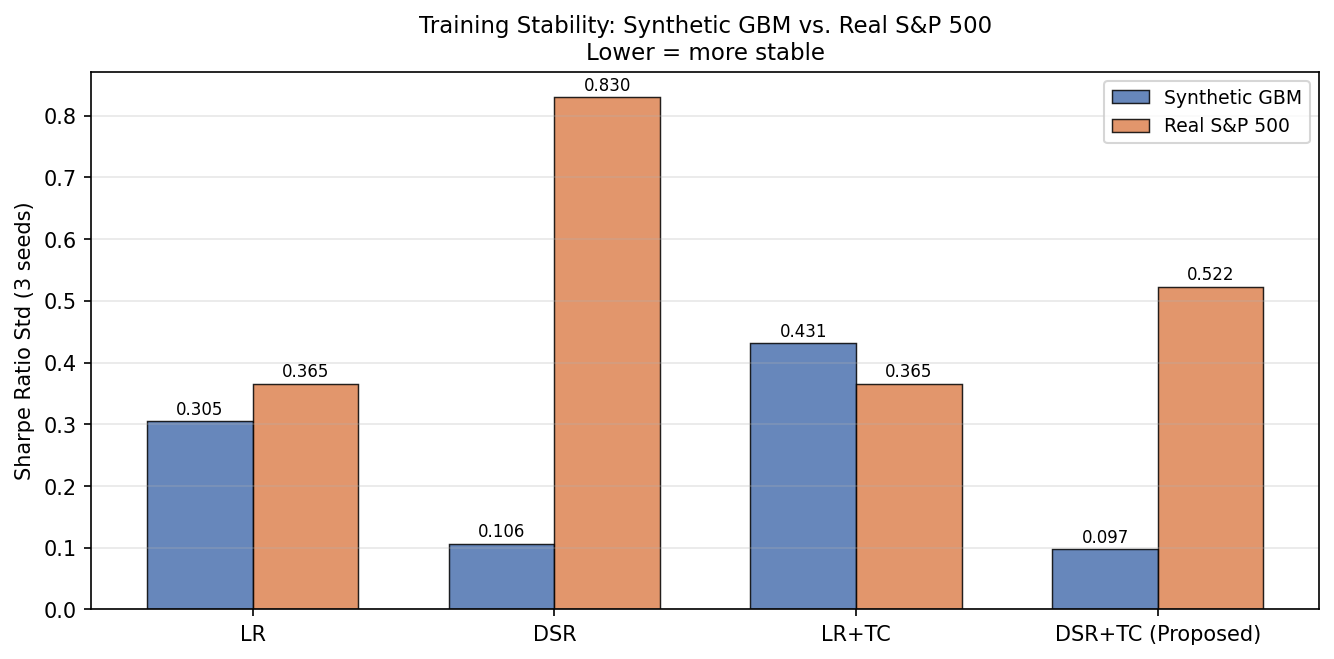
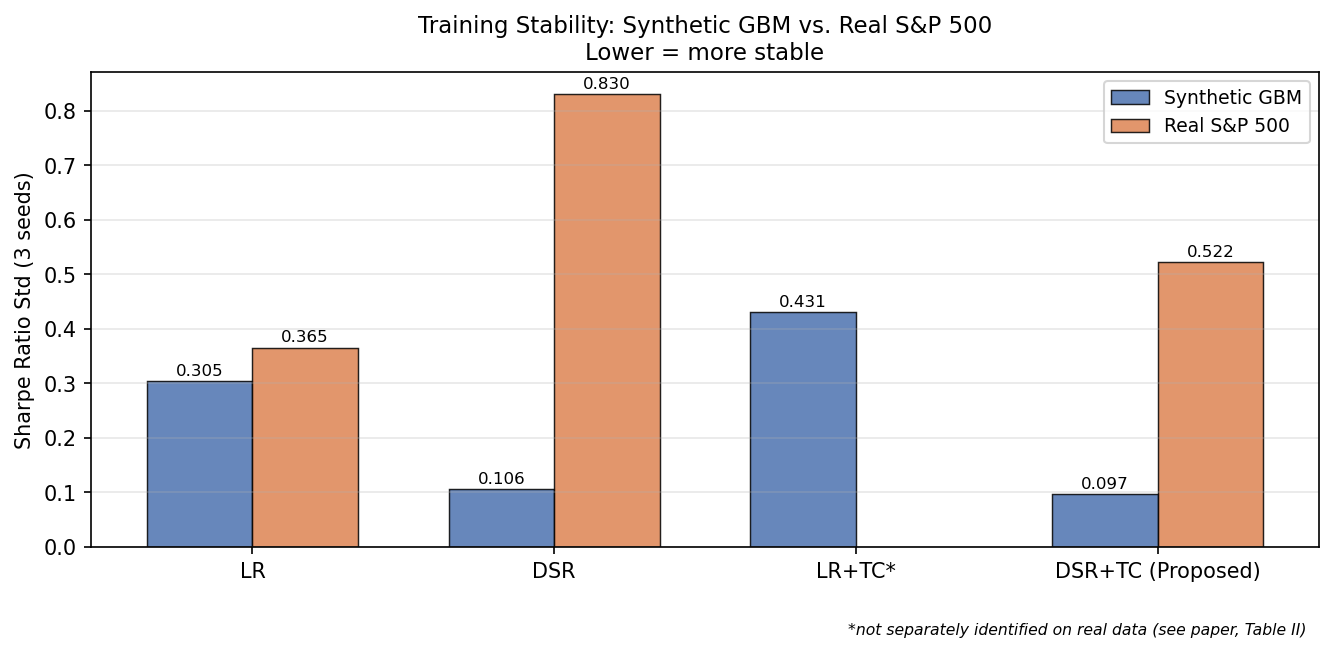
Stop plotting the duplicated EXP-07 configuration
exp_07_real_ablation.py builds its training env with tc=TC for every reward
type, so the transaction cost enters the realised return in all branches and
the log_return / log_return_tc configs reduce to the same objective. They
produce bit-identical runs: both report sharpe_mean = 0.2128969395... in
exp_07_results.json.

Real-data panels now plot a single merged LR series instead of two identical
ones. In the synthetic-vs-real grouped bars the real-side LR+TC bar is omitted
and marked, rather than repeating the LR value.

This affects EXP-07 only. EXP-02 and EXP-03 apply the cost conditionally via
tc=TC if 'tc' in rtype else 0.0, and EXP-14 onward define each configuration
explicitly. The LR vs LR+TC contrast is evaluated properly at n=60 in EXP-19.

diff --git a/experiments/exp_09_real_figures.py b/experiments/exp_09_real_figures.py
@@ -7,6 +7,10 @@ Generates 4 publication-quality figures for the real-data extension section:
   fig_09: Stability comparison — side-by-side Sharpe std: synthetic vs real
   fig_10: Turnover comparison — synthetic vs real (grouped bar)
 """
+import os as _os
+# Repo-relative root; override with the RESEARCH_ROOT environment variable.
+_ROOT = _os.environ.get("RESEARCH_ROOT") or _os.path.dirname(
+    _os.path.dirname(_os.path.abspath(__file__)))
 
 import numpy as np
 import json, os
@@ -15,8 +19,8 @@ matplotlib.use("Agg")
 import matplotlib.pyplot as plt
 import matplotlib.patches as mpatches
 
-FIGURES_DIR = "/home/user/workspace/research_output/figures"
-RESULTS_DIR = "/home/user/workspace/research_output/results"
+FIGURES_DIR = _ROOT + "/figures"
+RESULTS_DIR = _ROOT + "/results"
 os.makedirs(FIGURES_DIR, exist_ok=True)
 
 # ── Load results ───────────────────────────────────────────────────────────────
@@ -29,12 +33,20 @@ with open(f"{RESULTS_DIR}/exp_02_results.json") as f: r2_syn = json.load(f)
 with open(f"{RESULTS_DIR}/exp_03_results.json") as f: r3_syn = json.load(f)
 
 REWARD_TYPES = ["log_return", "dsr", "log_return_tc", "dsr_tc"]
+
+# EXP-07 applies the transaction cost to the realised return for every reward
+# type, so the log_return and log_return_tc branches reduce to the same
+# objective and produce identical runs. Real-data panels therefore plot a
+# single merged LR series; see the note to Table II in the paper.
+REAL_REWARD_TYPES = ["log_return", "dsr", "dsr_tc"]
+
 LABEL_MAP = {
     "log_return":    "LR",
     "dsr":           "DSR",
     "log_return_tc": "LR+TC",
     "dsr_tc":        "DSR+TC\n(Proposed)",
 }
+REAL_LABEL_MAP = dict(LABEL_MAP, log_return="LR\n(R1/R3)")
 COLORS = {
     "log_return":    "#4C72B0",
     "dsr":           "#55A868",
@@ -48,7 +60,7 @@ COLORS = {
 # ─────────────────────────────────────────────────────────────────────────────
 # FIG 7: Sharpe comparison on real data (bar + error bars)
 # ─────────────────────────────────────────────────────────────────────────────
-all_strats   = REWARD_TYPES + ["equal_weight", "min_variance", "max_sharpe"]
+all_strats   = REAL_REWARD_TYPES + ["equal_weight", "min_variance", "max_sharpe"]
 sharpe_means = []
 sharpe_stds  = []
 for s in all_strats:
@@ -59,7 +71,7 @@ for s in all_strats:
         sharpe_means.append(r6["baselines"][s]["sharpe_ratio"])
         sharpe_stds.append(0.0)
 
-labels_plot  = [LABEL_MAP.get(s, s.replace("_", "-").title()) for s in all_strats]
+labels_plot  = [REAL_LABEL_MAP.get(s, s.replace("_", "-").title()) for s in all_strats]
 labels_plot[-2] = "Min-Var"
 labels_plot[-1] = "Max-SR\n(MVO)"
 colors_plot = [COLORS.get(s, "#999999") for s in all_strats]
@@ -99,13 +111,13 @@ test_regimes = np.array(r8["test_regimes"])
 line_styles = {"log_return": "-",  "dsr": "--", "log_return_tc": "-.", "dsr_tc": "-", "equal_weight": ":"}
 line_widths  = {"log_return": 1.5, "dsr": 1.5,  "log_return_tc": 1.5, "dsr_tc": 2.5, "equal_weight": 1.5}
 
-for rtype in REWARD_TYPES + ["equal_weight"]:
+for rtype in REAL_REWARD_TYPES + ["equal_weight"]:
     if rtype in daily_series:
         dr = np.array(daily_series[rtype])
         pv = np.cumprod(1 + dr)
         t  = np.arange(len(pv))
         ax.plot(t, pv,
-                label=LABEL_MAP.get(rtype, rtype.replace("_", " ").title()),
+                label=REAL_LABEL_MAP.get(rtype, rtype.replace("_", " ").title()),
                 color=COLORS.get(rtype, "#888"),
                 linewidth=line_widths.get(rtype, 1.5),
                 linestyle=line_styles.get(rtype, "-"))
@@ -140,9 +152,16 @@ print("fig_08 saved")
 # ─────────────────────────────────────────────────────────────────────────────
 fig, ax = plt.subplots(figsize=(9, 4.5))
 
-syn_stds  = [r2_syn["results"][rt]["sharpe_std"]   for rt in REWARD_TYPES]
-real_stds = [r7["results"][rt]["sharpe_std"]        for rt in REWARD_TYPES]
+def _real(series_key, rt):
+    """Real-data value, or NaN for the config EXP-07 does not identify separately."""
+    if rt not in REAL_REWARD_TYPES:
+        return np.nan
+    return r7["results"][rt][series_key]
+
+syn_stds  = [r2_syn["results"][rt]["sharpe_std"] for rt in REWARD_TYPES]
+real_stds = [_real("sharpe_std", rt)             for rt in REWARD_TYPES]
 labels_r  = [LABEL_MAP[rt].replace("\n", " ") for rt in REWARD_TYPES]
+labels_r[REWARD_TYPES.index("log_return_tc")] += "*"
 
 x   = np.arange(len(REWARD_TYPES))
 w   = 0.35
@@ -150,6 +169,8 @@ b1  = ax.bar(x - w/2, syn_stds,  w, label="Synthetic GBM", color="#4C72B0", alph
 b2  = ax.bar(x + w/2, real_stds, w, label="Real S&P 500",  color="#DD8452", alpha=0.85, edgecolor="black", linewidth=0.7)
 
 for bar, v in list(zip(b1, syn_stds)) + list(zip(b2, real_stds)):
+    if np.isnan(v):
+        continue
     ax.text(bar.get_x() + bar.get_width()/2, bar.get_height() + 0.005,
             f"{v:.3f}", ha="center", va="bottom", fontsize=8)
 
@@ -158,6 +179,8 @@ ax.set_xticklabels(labels_r, fontsize=10)
 ax.set_ylabel("Sharpe Ratio Std (3 seeds)", fontsize=10)
 ax.set_title("Training Stability: Synthetic GBM vs. Real S&P 500\n"
              "Lower = more stable", fontsize=11)
+ax.text(0.99, -0.16, "*not separately identified on real data (see paper, Table II)",
+        transform=ax.transAxes, ha="right", va="top", fontsize=7.5, style="italic")
 ax.legend(fontsize=9)
 ax.grid(axis="y", alpha=0.3)
 plt.tight_layout()
@@ -170,13 +193,15 @@ print("fig_09 saved")
 # ─────────────────────────────────────────────────────────────────────────────
 fig, ax = plt.subplots(figsize=(9, 4.5))
 
-syn_to  = [r3_syn["turnover"][rt]            for rt in REWARD_TYPES]
-real_to = [r7["results"][rt]["turnover_mean"] for rt in REWARD_TYPES]
+syn_to  = [r3_syn["turnover"][rt]        for rt in REWARD_TYPES]
+real_to = [_real("turnover_mean", rt)    for rt in REWARD_TYPES]
 
 b1  = ax.bar(x - w/2, syn_to,  w, label="Synthetic GBM", color="#4C72B0", alpha=0.85, edgecolor="black", linewidth=0.7)
 b2  = ax.bar(x + w/2, real_to, w, label="Real S&P 500",  color="#DD8452", alpha=0.85, edgecolor="black", linewidth=0.7)
 
 for bar, v in list(zip(b1, syn_to)) + list(zip(b2, real_to)):
+    if np.isnan(v):
+        continue
     ax.text(bar.get_x() + bar.get_width()/2, bar.get_height() + 0.001,
             f"{v:.4f}", ha="center", va="bottom", fontsize=8)
 
